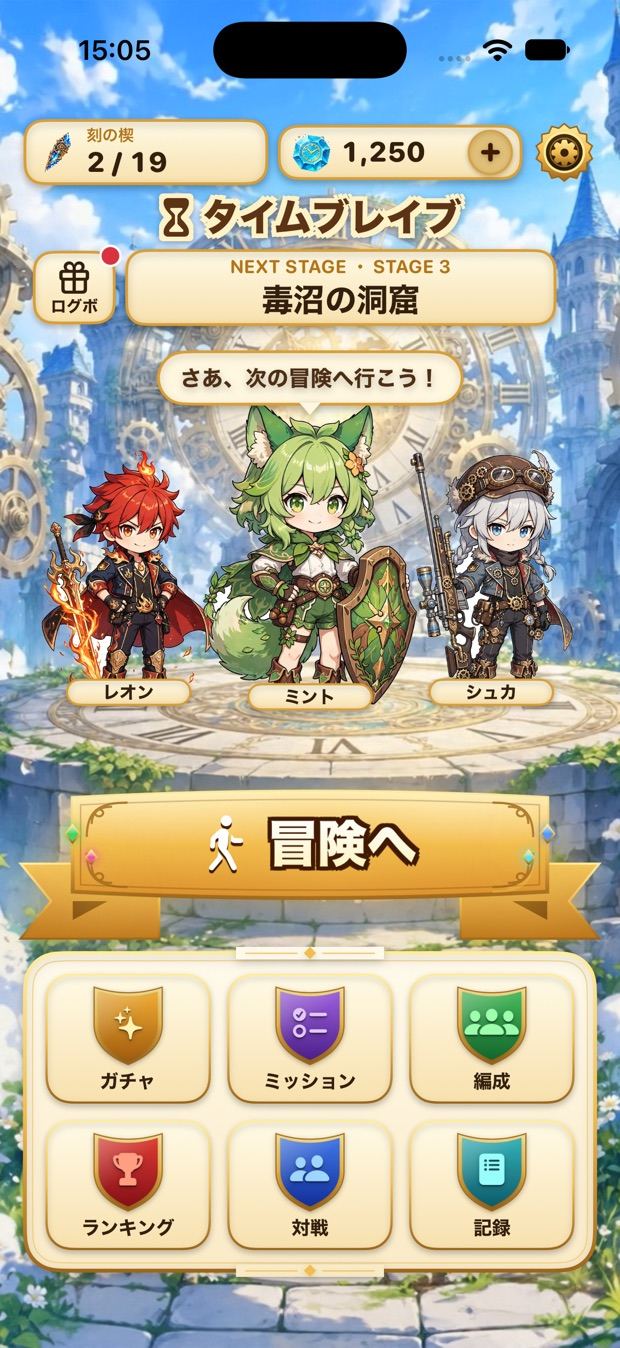
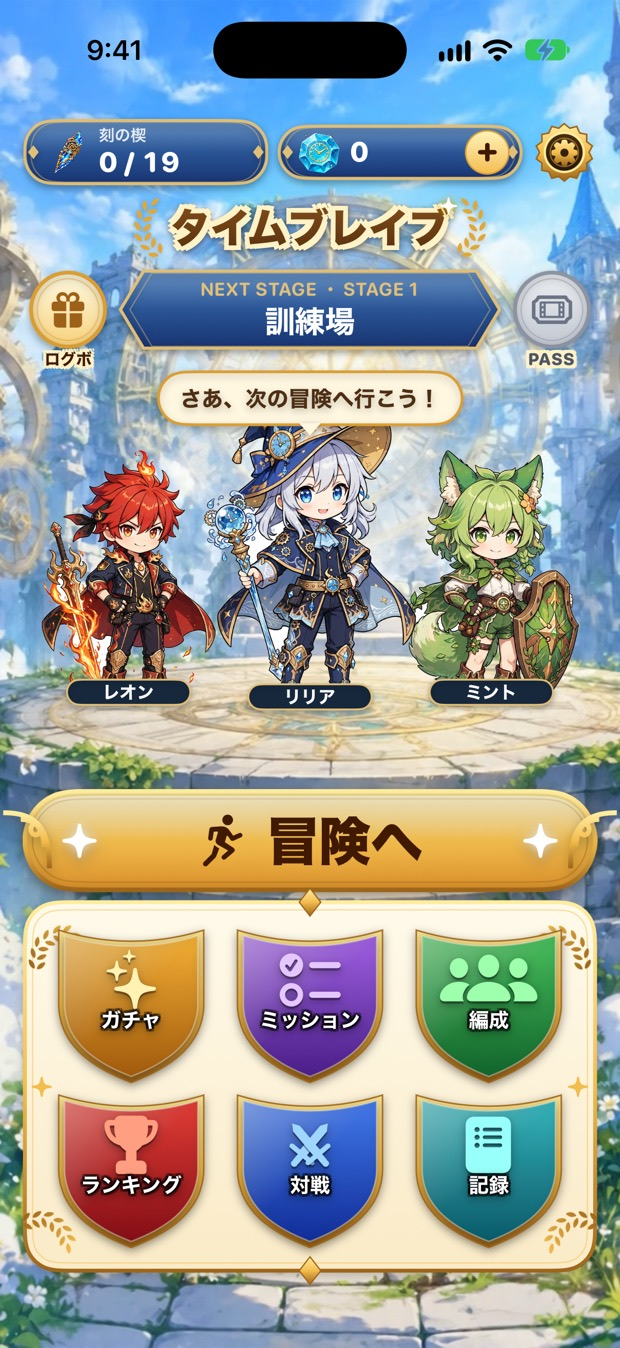
タイムブレイブLP: 対戦中の画面を追加、ホーム画面を初期メンバーで撮り直し

diff --git a/timebrave/index.html b/timebrave/index.html
@@ -85,8 +85,10 @@ section{padding:64px 0}
 .vs-card p{margin:0;color:var(--ink-soft);font-size:14.5px}
 .vs-card .entrances{margin-top:14px}
 .vs-body{display:grid;gap:28px;align-items:center;max-width:900px;margin:26px auto 0}
-@media(min-width:760px){.vs-body{grid-template-columns:240px 1fr}}
-.vs-body .phone{max-width:240px;margin:0 auto}
+@media(min-width:760px){.vs-body{grid-template-columns:420px 1fr}}
+.vs-shots{display:flex;gap:12px;align-items:flex-end;justify-content:center}
+.vs-shots .main{flex:0 0 62%;max-width:260px}
+.vs-shots .sub{border-radius:20px;border-width:4px;flex:0 0 34%;max-width:140px;opacity:.95}
 .vs-rules{list-style:none;margin:0;padding:0;display:grid;gap:10px;font-weight:700;font-size:15px}
 .vs-rules li{display:flex;gap:10px;background:#fff;border-radius:16px;padding:12px 16px;border:2px solid var(--line)}
 .vs-rules li::before{content:"✓";color:var(--sky);font-weight:800;flex:none}
@@ -238,7 +240,10 @@ footer p{margin:0 0 6px}
       </div>
     </div>
     <div class="vs-body">
-      <div class="phone"><img src="images/versus.jpg" alt="対戦ロビー：近距離対戦・フレンド・ランダムの3つから選べる画面" width="620" height="1348" loading="lazy"></div>
+      <div class="vs-shots">
+        <div class="phone main"><img src="images/versus_battle.jpg" alt="対戦中の画面：相手のパーティとHP、目標時間、自分のパーティ、STARTとSTOPのボタン" width="620" height="1348" loading="lazy"></div>
+        <div class="phone sub"><img src="images/versus.jpg" alt="対戦ロビー：近距離対戦・フレンド・ランダムの3つから選べる画面" width="620" height="1348" loading="lazy"></div>
+      </div>
       <ul class="vs-rules">
         <li>3人ずつのパーティで、先頭同士が戦います</li>
         <li>両者が同時にSTOP。目標時間に近いほど強い一撃になります</li>
@@ -300,7 +305,7 @@ footer p{margin:0 0 6px}
       <figure><div class="phone"><img src="images/battle.jpg" alt="バトル画面：敵のHPと目標時間2.78秒、STARTとSTOPのボタン" width="620" height="1348" loading="lazy"></div><figcaption>バトル<small>目標時間にSTOPを合わせる</small></figcaption></figure>
       <figure><div class="phone"><img src="images/victory.jpg" alt="勝利画面：VICTORYの表示と獲得報酬" width="620" height="1348" loading="lazy"></div><figcaption>勝利<small>倒すとコインや時石を獲得</small></figcaption></figure>
       <figure><div class="phone"><img src="images/gacha.jpg" alt="ガチャの召喚結果の画面：仲間が10人並んでいる" width="620" height="1348" loading="lazy"></div><figcaption>ガチャ<small>時石で仲間を呼ぶ</small></figcaption></figure>
-      <figure><div class="phone"><img src="images/versus.jpg" alt="対戦ロビー：パーティとルール、近距離対戦・フレンド・ランダムの選択" width="620" height="1348" loading="lazy"></div><figcaption>対戦<small>近距離・フレンド・ランダム</small></figcaption></figure>
+      <figure><div class="phone"><img src="images/versus_battle.jpg" alt="対戦中の画面：相手のパーティとHP、目標時間、STARTとSTOPのボタン" width="620" height="1348" loading="lazy"></div><figcaption>対戦<small>友達と1対1で勝負</small></figcaption></figure>
     </div>
   </div>
 </section>
